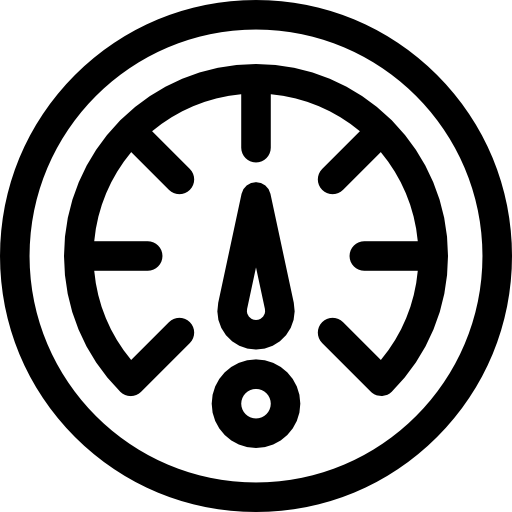
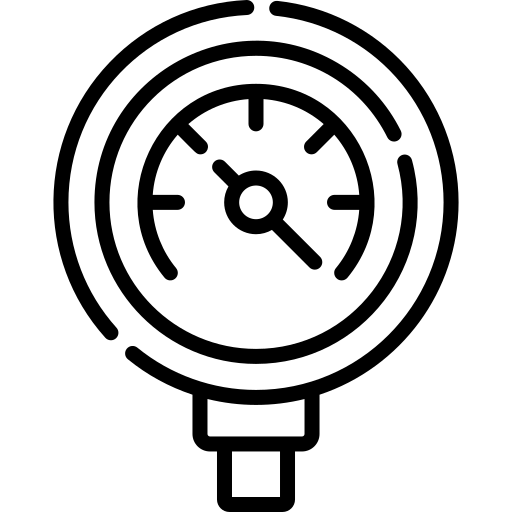
work with front + added addaptive

diff --git a/public/styles.css b/public/styles.css
@@ -4,12 +4,14 @@ body {
     flex-direction: column;
     min-height: 100vh;
     background-color: rgba(247, 248, 250, 1);
+    font-family: 'Montserrat', sans-serif;
     margin: 0;
+    color: #1E293B;
 }
 
 .wrapper {
-    min-height: 20vh;
-    width: 80vh;
+    max-height: auto;
+    max-width: 80vh;
     background-color: white;
     box-shadow: 0 4px 8px rgba(0, 0, 0, 0.2);
     border-radius: 32px;
@@ -30,36 +32,41 @@ body {
 }
 
 .current-weather {
-    display:flex;
-    flex-direction: row;
+    display: flex;
+    flex-direction: column;
+    flex-wrap: wrap;
     margin: 20px;
     border: 1px solid black;
     border-radius: 16px;
     align-items: center;
+    background: linear-gradient(135deg, #eef7ff, #cfe9ff);
+    border: 1px solid #d6d6d6;
+    box-shadow: 0 8px 25px rgba(0, 0, 0, 0.08);
 }
 
-.weather-icon{
-    margin: 5px;
-    border: 1px solid red;
+.info {
+    font-size: 54px;
+    margin: 20px;
 }
 
 .weather-stats {
-    list-style-type:  none;
-    border: 1px solid green;
-    margin-right: auto;
+    list-style-type: none;
+    padding-left: 0;
+    display: flex;
+    flex-direction: row;
+    flex-wrap: wrap;
+    justify-content: center;
+    padding: 20px;
 }
 
 .weather-stats li {
-    display: table;
-    border: 1px solid purple;
+    display: flex;
+    align-items: center;
+    margin: 5px;
 }
 
 span {
     margin: 5px;
-}
-
-h1 {
-    font-size: 4rem;
 }
 
 .suggestions {
@@ -87,10 +94,46 @@ h1 {
 }
 
 .weather-stats img {
-    width: 50px; 
+    width: 50px;
     height: auto;
 }
 
-h1 {
-    border: 1px solid blue;
+.weather-header {
+    display: flex;
+    flex-direction: row;
+    align-items: center;
+}
+
+
+input:focus {
+    outline: none;
+    border-color: #9CA3AF;
+    box-shadow:
+        0 0 0 4px rgba(156, 163, 175, 0.25),
+        0 6px 20px rgba(0, 0, 0, 0.06);
+}
+
+@media (max-width:750px) {
+    .wrapper {
+        min-height: 650px;
+        min-width: 450px;
+    }
+    .current-weather {
+        flex-direction: column;
+    }
+
+    .weather-header {
+        flex-direction: column;
+        justify-content: center;
+        flex-wrap: wrap;
+    }
+
+    .weather-stats {
+        flex-wrap: wrap;
+    }
+
+    .info {
+        text-align: center;
+        overflow-wrap: break-word;
+    }
 }

diff --git a/src/weather.js b/src/weather.js
@@ -12,8 +12,8 @@ async function loadWeatherByCoords(lat = 55.7558, lon = 37.6173) {
         // Обновление данных на странице
         document.getElementById('temp').innerText = Math.round(data.main.temp) + ' °C';
         document.getElementById('city').innerText = data.name;
-        document.getElementById('wind').innerText = `Ветер : ${data.wind.speed} м/c`;
-        document.getElementById('pressure').innerText = `Атм. давление : ${data.main.pressure * 0.75} мм. рт. ст`;
+        document.getElementById('wind').innerText = `Ветер : ${Math.round(data.wind.speed)} м/c`;
+        document.getElementById('pressure').innerText = `Атм. давление : ${Math.round(data.main.pressure * 0.75)} мм. рт. ст`;
         document.getElementById('humidity').innerText = `Влажность : ${data.main.humidity} %`;
         document.getElementById('clouds').innerText = ` Облачность : ${data.clouds.all} %`;
         document.getElementById('icon').src =`https://openweathermap.org/payload/api/media/file/${data.weather[0].icon}.png`;

diff --git a/public/index.php b/public/index.php
@@ -1,5 +1,3 @@
-
-
 <!DOCTYPE html>
 <html lang="en">
 
@@ -8,6 +6,8 @@
     <meta name="viewport" content="width=device-width, initial-scale=1.0">
     <title>WeatherApp</title>
     <link rel="stylesheet" href="styles.css">
+    <link rel="preconnect" href="https://fonts.googleapis.com">
+    <link href="https://fonts.googleapis.com/css2?family=Montserrat:wght@400;500;600;700&display=swap" rel="stylesheet">
 </head>
 
 <body onload="loadWeatherByCoords()">
@@ -16,12 +16,14 @@
         <ul class="suggestions" id="suggestions"></ul>
 
         <div class="current-weather">
-            <h1>
-                <span id="temp"></span>
-                <span id="city"></span>
-            </h1>
-            <div class="weather-icon">
-                <img id="icon" alt="icon">
+            <div class="weather-header">
+                <div class="info">
+                    <span id="city"></span>
+                    <span id="temp"></span>
+                </div>
+                <div class="weather-icon">
+                    <img id="icon" alt="icon">
+                </div>
             </div>
             <ul class="weather-stats">
                 <li><img src="../img/wind.png" alt="wind"><span id="wind"></span></li>